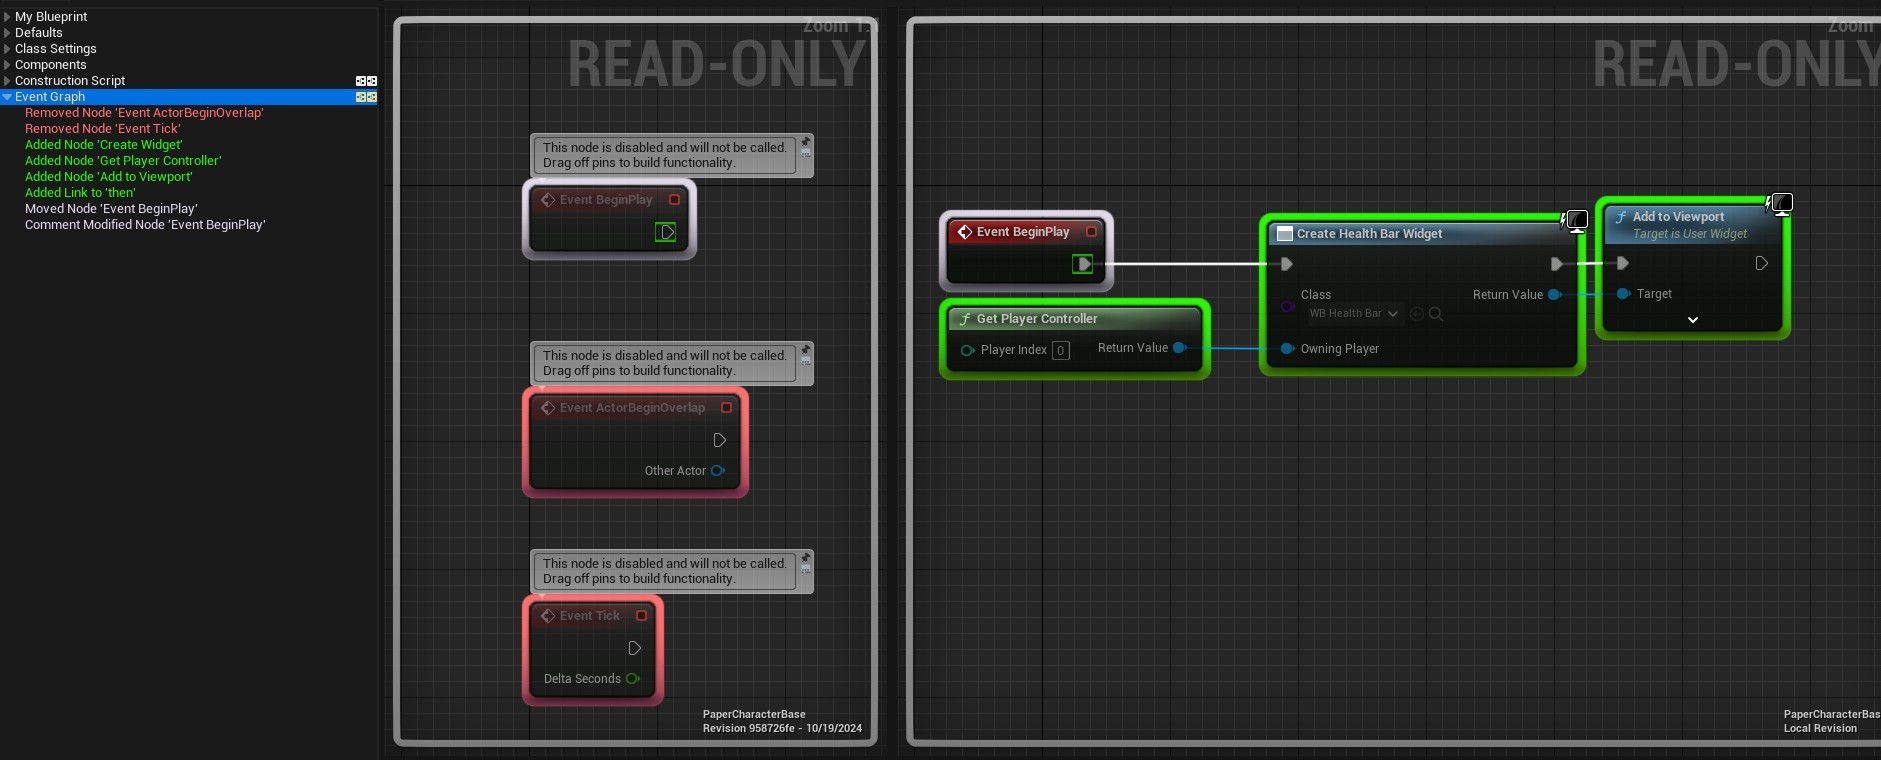
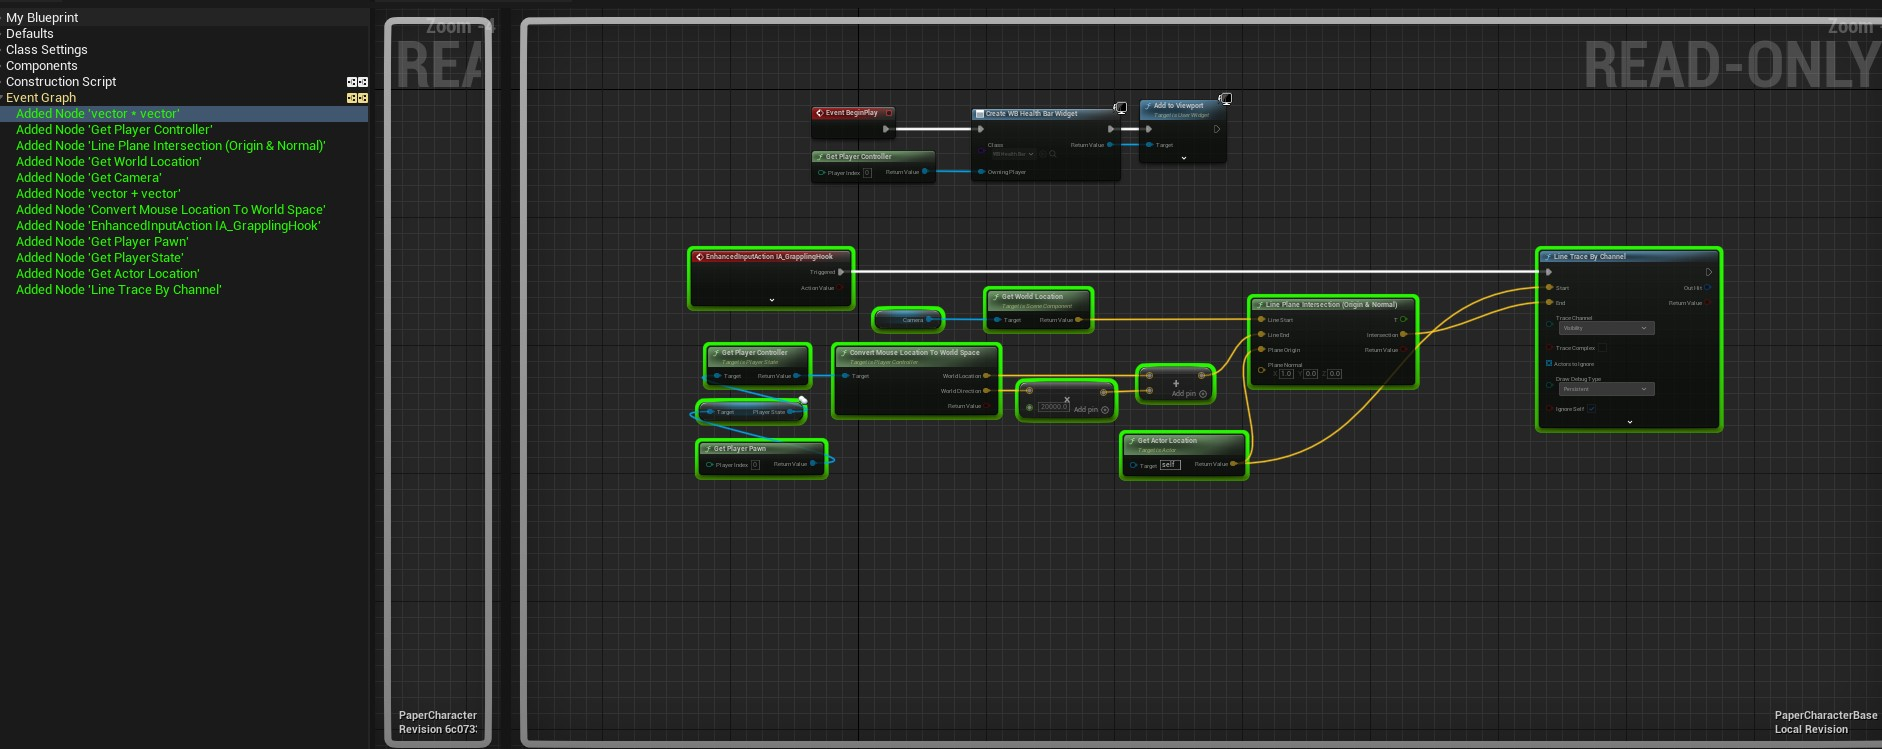
[Add] Raycasting

Changed region(s): [[0.0, 0.0, 1.0, 1.0]]

diff --git a/GameJamPlus2024/Source/GameJamPlus2024/Private/Upgrades/GrapplingHookComponent.cpp b/GameJamPlus2024/Source/GameJamPlus2024/Private/Upgrades/GrapplingHookComponent.cpp
@@ -3,7 +3,82 @@
 
 #include "Upgrades/GrapplingHookComponent.h"
 
-void UGrapplingHookComponent::LaunchHook()
+#include <optional>
+
+#include "DrawDebugHelpers.h"  // For visualizing the trace in the editor (optional)
+#include "PaperCharacterBase.h"
+#include "Camera/CameraComponent.h"
+#include "Engine/World.h"       // For accessing the world
+#include "GameFramework/Actor.h" // For working with actors
+#include "Kismet/GameplayStatics.h"
+#include "Kismet/KismetSystemLibrary.h"  // Optional for advanced tracing
+
+
+void UGrapplingHookComponent::LaunchHook(const FInputActionValue& Value)
 {
-	UE_LOG(LogTemp, Warning, TEXT("Hook Launched!"));
+	APaperCharacterBase* Character = Cast<APaperCharacterBase>(GetOwner());
+
+	FHitResult HitResult;  // The hit result of the line trace
+	HookLineTrace(HitResult);  // Perform the line trace
+}
+
+void UGrapplingHookComponent::HookLineTrace(FHitResult& OutHit)
+{
+	// UCameraComponent* Camera = GetOwner()->FindComponentByClass<UCameraComponent>();
+	// if (!Camera) return;
+	//
+	// APaperCharacterBase* Character = Cast<APaperCharacterBase>(GetOwner());
+	// if (!Character) return;
+	//
+	// APlayerController* PlayerController = Cast<APlayerController>(Character->GetController());
+	// if (!PlayerController) return;
+	//
+	// FVector2D MousePosition(0.0f, 0.0f);
+	// Cast<APlayerController>(PlayerController)->GetMousePosition(MousePosition.X, MousePosition.Y);
+	//
+	// FVector WorldLocation;
+	// FVector WorldDirection;
+	// float Distance = 2000.0f;
+	//
+	// // Deproject the mouse position to get the world direction
+	// if (PlayerController->DeprojectMousePositionToWorld(WorldLocation, WorldDirection))
+	// {
+	// 	// Set the trace start and end points
+	// 	FVector Start = Camera->GetComponentTransform().GetLocation(); // The character's location
+	// 	FVector End = WorldLocation + (WorldDirection * Distance) ; // Adjust the distance as needed (10,000 units)
+	// 	
+	// 	///////// LINE PLANE INTERSECTION
+	// 	FVector PlaneOrigin = Character->GetActorLocation();  // A point on the plane (e.g., origin)
+	// 	FVector PlaneNormal(1.0f, 0.0f, 0.0f);  // The plane's normal (e.g., x-axis)
+	// 	/// // Compute the dot product between the line direction and the plane normal
+	// 	float Denominator = FVector::DotProduct(PlaneNormal, End);
+	//
+	// 	// Check if the line is parallel to the plane
+	// 	if (FMath::IsNearlyZero(Denominator)) {
+	// 		return; // No intersection (or line is parallel to the plane)
+	// 	}
+	//
+	// 	// Compute the parameter 't' for the intersection point
+	// 	float t = FVector::DotProduct(PlaneNormal, PlaneOrigin - Start) / Denominator;
+	//
+	// 	// Compute the intersection point using the parametric line equation
+	// 	FVector IntersectionPoint = Start + t * End;
+	//
+	// 	
+	// 	/////////// Perform the line trace
+	// 	FHitResult HitResult;
+	// 	FCollisionQueryParams CollisionParams;
+	// 	CollisionParams.AddIgnoredActor(GetOwner()); // Ignore the character itself
+	// 	
+	// 	bool bHit = GetWorld()->LineTraceSingleByChannel(HitResult, PlaneOrigin, IntersectionPoint, ECC_Visibility, CollisionParams);
+ //        
+	// 	if (bHit)
+	// 	{
+	// 		// Handle hit (e.g., log hit actor's name)
+	// 		UE_LOG(LogTemp, Warning, TEXT("Hit: %s"), *HitResult.GetActor()->GetName());
+	// 	}
+	//
+	// 	// Optional: Draw debug line for visualization
+	// 	DrawDebugLine(GetWorld(), Start, End, FColor::Red, false, 4.0f, 0, 1.0f);
+	// }
 }

diff --git a/GameJamPlus2024/Source/GameJamPlus2024/Private/PaperCharacterBase.cpp b/GameJamPlus2024/Source/GameJamPlus2024/Private/PaperCharacterBase.cpp
@@ -7,6 +7,7 @@
 #include "EnhancedInputSubsystems.h"
 #include "EventsManager.h"
 #include "PaperFlipbookComponent.h"
+#include "Camera/CameraComponent.h"
 #include "GameJamPlus2024/GameJamPlus2024Character.h"
 #include "Hazards/HazardBase.h"
 
@@ -42,7 +43,11 @@ void APaperCharacterBase::SetupPlayerInputComponent(class UInputComponent* Playe
 		EnhancedInputComponent->BindAction(JumpAction, ETriggerEvent::Completed, this, &ACharacter::StopJumping);
 
 		// Grappling Hook
-		EnhancedInputComponent->BindAction(GrapplingHookAction, ETriggerEvent::Triggered, GrapplingHookComponent, &UGrapplingHookComponent::LaunchHook);
+
+		//Bind Action, and call the hook launch method in the GrapplingHookComponent passing the mouse position
+		EnhancedInputComponent->BindAction(GrapplingHookAction, ETriggerEvent::Triggered, GrapplingHookComponent, &UGrapplingHookComponent::LaunchHook); 
+
+		//Cast<APlayerController>(GetController())->GetMousePosition(MousePosition.X, MousePosition.Y);
 	}
 	else
 	{
@@ -127,10 +132,44 @@ void APaperCharacterBase::TakeDamage(int Damage)
 }
 
 
+void APaperCharacterBase::EnableMouseEvents()
+{
+	APlayerController* PC = Cast<APlayerController>(GetController());
+
+	if (PC)
+	{
+		PC->bShowMouseCursor = true; 
+		PC->bEnableClickEvents = true; 
+		PC->bEnableMouseOverEvents = true;
+	}
+}
+
+FVector2D APaperCharacterBase::GetMousePosition()
+{
+	FVector2D MousePosition(0.0f, 0.0f);
+	Cast<APlayerController>(GetController())->GetMousePosition(MousePosition.X, MousePosition.Y);
+	return FVector2D(MousePosition);
+}
+
+FVector APaperCharacterBase::ConvertScreenToWorldPoint(const FVector2D& ScreenPosition)
+{
+	FVector WorldLocation;
+	FVector WorldDirection = GetActorRightVector();
+	APlayerController* PlayerController = Cast<APlayerController>(GetController());
+	FVector PlayerLocation = PlayerController->GetPawn()->GetActorLocation();
+	//UE_LOG(LogTemp, Log, TEXT("Player Location: X = %f, Y = %f, Z = %f"), PlayerLocation.X, PlayerLocation.Y, PlayerLocation.Z);
+	PlayerController->DeprojectScreenPositionToWorld(ScreenPosition.X, ScreenPosition.Y, WorldLocation,WorldDirection);
+	
+	//return FVector(PlayerLocation.X, WorldLocation.X, WorldLocation.Y);
+	return WorldLocation;
+}
+
 void APaperCharacterBase::BeginPlay()
 {
 	Super::BeginPlay();
 	OnActorBeginOverlap.AddDynamic(this, &APaperCharacterBase::OnBeginOverlap);
+
+	EnableMouseEvents();
 }
 
 void APaperCharacterBase::OnBeginOverlap(AActor* OverlappedActor, AActor* OtherActor)

diff --git a/GameJamPlus2024/Source/GameJamPlus2024/Public/PaperCharacterBase.h b/GameJamPlus2024/Source/GameJamPlus2024/Public/PaperCharacterBase.h
@@ -42,12 +42,13 @@ class GAMEJAMPLUS2024_API APaperCharacterBase : public APaperCharacter
 
 public:
 	APaperCharacterBase();
-
+	
 	UPROPERTY(VisibleAnywhere, BlueprintReadOnly, Category = "Upgrades", meta = (AllowPrivate))
 	UDoubleJumpComponent* DoubleJumpComponent;
 
 	UPROPERTY(VisibleAnywhere, BlueprintReadOnly, Category = "Upgrades", meta = (AllowPrivate))
 	UGrapplingHookComponent* GrapplingHookComponent;
+
 
 protected:
 	UPROPERTY(EditAnywhere, BlueprintReadWrite, Category = "Input", meta = (AllowPrivate = "true"))
@@ -58,12 +59,18 @@ protected:
 	void SwitchAnimation(const FVector2d& Value);
 	void RotateCamera(const FInputActionValue& Value);
 	void TakeDamage(int Damage);
+	void EnableMouseEvents();
+
 
 	// APawn interface
 	virtual void SetupPlayerInputComponent(class UInputComponent* PlayerInputComponent) override;
 	
 	// To add mapping context
 	virtual void BeginPlay() override;
+public:	
+	FVector2D GetMousePosition();
+	FVector ConvertScreenToWorldPoint(const FVector2D& ScreenPosition);
+
 private:
 	
 	UFUNCTION()

diff --git a/GameJamPlus2024/Source/GameJamPlus2024/GameJamPlus2024.Build.cs b/GameJamPlus2024/Source/GameJamPlus2024/GameJamPlus2024.Build.cs
@@ -6,6 +6,7 @@ public class GameJamPlus2024 : ModuleRules
 {
 	public GameJamPlus2024(ReadOnlyTargetRules Target) : base(Target)
 	{
+		PrivateDependencyModuleNames.AddRange(new string[] { "AITestSuite", "AITestSuite", "AITestSuite" });
 		PCHUsage = PCHUsageMode.UseExplicitOrSharedPCHs;
 
 		PublicDependencyModuleNames.AddRange(new string[] { "Core", "CoreUObject", "Engine", "InputCore", "EnhancedInput", "Paper2D", "Paper2D", "UMGEditor", "UMGEditor" });

diff --git a/GameJamPlus2024/Source/GameJamPlus2024/Public/Upgrades/GrapplingHookComponent.h b/GameJamPlus2024/Source/GameJamPlus2024/Public/Upgrades/GrapplingHookComponent.h
@@ -14,8 +14,10 @@ UCLASS()
 class GAMEJAMPLUS2024_API UGrapplingHookComponent : public UCharacterUpgrade
 {
 	GENERATED_BODY()
-
-public:
-	void LaunchHook();
 	
+protected:
+	void HookLineTrace(FHitResult& OutHit);
+public:
+	void LaunchHook(const FInputActionValue& Value);
+
 };
